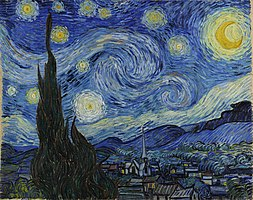
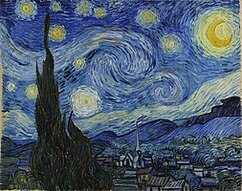
Add resized images and structure to readme doc

diff --git a/assets/js/script.js b/assets/js/script.js
@@ -1,3 +1,6 @@
+/**
+ * List of variables to be used through out the javasript code
+ */
 let gameSection = document.getElementById("container");
 let answerOptions = Array.from(document.getElementsByClassName("options-text"));
 let currentQuestion = {};
@@ -171,13 +174,21 @@ let scoreText = document.getElementById("score");
 let questionCounter = 0;
 let totalQuestions = 2;
 
+/**
+ * Main function to run the game, it calls the function that displays the questions
+ */
 function startGame() {
   score = 0;
   listOfQuestions = [...questions];
   displayNewQuestion();
 }
 
+/**
+ * Function to generate a new question, randomly selected from list of questions.
+ * If the question limit has been reached, the final result will be shown.
+ */
 function displayNewQuestion() {
+  //to display the final result
   if (listOfQuestions.length === 0 || questionCounter > totalQuestions) {
     displayEndSection();
   }
@@ -190,6 +201,7 @@ function displayNewQuestion() {
   //to set the image/text for the answer options, taking the info from the array
   questionImage.setAttribute("src", `assets/images/${currentQuestion.img}`);
 
+  //to display the answer options associated with each image
   answerOptions.forEach((answerOption) => {
     let number = answerOption.dataset["option"];
     answerOption.innerText = currentQuestion["option" + number];
@@ -201,6 +213,9 @@ function displayNewQuestion() {
   acceptingAnswers = true;
 }
 
+/**
+ * Funtion called when question limit has been reached - shows final score
+ */
 function displayEndSection() {
   container.innerHTML = `
   <h2>Thank you for playing!</h2>
@@ -218,7 +233,7 @@ answerOptions.forEach((answerOption) => {
     //to show the number of the option selected by the user
     let selectedAnswer = selectedOption.dataset["option"];
 
-    //to show if the answer is correct or incorrect and increase score counter
+    //to check if the answer is correct or incorrect and increase score counter accordingly
     let classToApply =
       selectedAnswer == currentQuestion.answer ? "correct" : "incorrect";
 
@@ -228,6 +243,7 @@ answerOptions.forEach((answerOption) => {
 
     selectedOption.classList.add(classToApply);
 
+    // to move on to the next question
     setTimeout(() => {
       selectedOption.classList.remove(classToApply);
       displayNewQuestion();
@@ -235,6 +251,9 @@ answerOptions.forEach((answerOption) => {
   });
 });
 
+/**
+ * Function to increase the score if user answers correctly
+ */
 function increaseScore(num) {
   score += num;
   scoreText.innerText = score;

diff --git a/assets/css/style.css b/assets/css/style.css
@@ -1,3 +1,4 @@
+/*Styling for main body of website and general features*/
 body {
   background: linear-gradient(
     109.6deg,
@@ -11,7 +12,26 @@ body {
   text-transform: uppercase;
 }
 
-/*Nav-Bar styling used across all pages of site*/
+ul {
+  padding: 0;
+  margin: 4px;
+}
+
+li {
+  list-style-type: none;
+}
+
+a,
+a:visited {
+  color: #ffffff;
+  text-decoration: none;
+}
+
+a:hover {
+  font-weight: bold;
+}
+
+/*Styling for Nav-bar used on all pages of website*/
 nav {
   position: fixed;
   top: 0;
@@ -38,9 +58,10 @@ nav a:visited {
 
 .flex-item {
   margin: 0 7px;
-  font-size: 22px;
+  font-size: 20px;
 }
 
+/*Styling for game content section*/
 .container {
   color: #2342a4;
   width: 70%;
@@ -48,19 +69,6 @@ nav a:visited {
   background-color: #ffffff;
   border-radius: 10px;
   padding: 15px;
-}
-
-ul {
-  padding: 0;
-  margin: 4px;
-}
-li {
-  list-style-type: none;
-}
-
-footer {
-  color: #ffffff;
-  width: 100%;
 }
 
 #image-div {
@@ -83,6 +91,7 @@ footer {
   gap: 10px;
   flex-flow: row wrap;
 }
+
 .options-text,
 #start-again {
   color: #2342a4;
@@ -97,6 +106,7 @@ button:hover {
   background-color: #2342a4;
   color: #ffffff;
 }
+
 .correct,
 .correct:hover {
   background-color: #52c952;
@@ -115,14 +125,10 @@ button:hover {
   padding-top: 30px;
 }
 
-a,
-a:visited {
+/*Styling for footer section on all pages*/
+footer {
   color: #ffffff;
-  text-decoration: none;
-}
-
-a:hover {
-  font-weight: bold;
+  width: 100%;
 }
 
 footer ul {
@@ -142,6 +148,7 @@ footer a:visited {
   color: #ffff;
 }
 
+/*Styling for about page*/
 p {
   line-height: 50px;
 }

diff --git a/about.html b/about.html
@@ -17,9 +17,10 @@
     ></script>
   </head>
   <body>
+    <!-- Nav Bar Section -->
     <header>
       <nav>
-        <span><h1>👩🎨 Great Women Artists Quiz 👩🎨</h1></span>
+        <h1>👩🎨 Great Women Artists Quiz 👩🎨</h1>
         <ul class="flex-container">
           <li class="flex-item">
             <a href="index.html" title="link to quiz homepage">Play</a>
@@ -30,6 +31,7 @@
         </ul>
       </nav>
     </header>
+    <!-- About Section -->
     <main class="container">
       <p>
         Women artists have been written out of art history for far too long.
@@ -47,8 +49,9 @@
         <br />
         🎨 We hope you have fun and discover a lot about Great Women Artists 🎨
       </p>
-
-      <a href="index.html" id="lets-play-button">Let's Play!</a>
+      <a href="index.html" id="lets-play-button" title="link to homepage"
+        >Let's Play!</a
+      >
     </main>
     <!-- Footer Section -->
     <footer>

diff --git a/index.html b/index.html
@@ -20,7 +20,7 @@
     <!-- Nav-bar section -->
     <header>
       <nav>
-        <span><h1>👩🎨 Great Women Artists Quiz 👩🎨</h1></span>
+        <h1>👩🎨 Great Women Artists Quiz 👩🎨</h1>
         <ul class="flex-container">
           <li class="flex-item">
             <a href="index.html" title="link to quiz homepage">Play</a>
@@ -31,6 +31,7 @@
         </ul>
       </nav>
     </header>
+    <!-- Game section -->
     <div class="container" id="container">
       <h2>Name the artist</h2>
       <div id="game-section">

diff --git a/README.md b/README.md
@@ -1,13 +1,27 @@
 # Art Quiz App
 
-This is an art quiz app where the user can test their knowledge of artworks and their corresponding artist. The user is presented with an image immediately on page load and can choose between four artist's names. If the correct answer is selected the tally at the bottom of the page will increase by 1 and the next image will be shown. If the incorrect answer is selected, the correct answer will be shown in green and then the next image will be shown. When the user has seen ten images, they will be presented with their total correct score and the option to take the quiz again.
+## The Purpose of the Project
 
-Credits -
-Create a Quiz App using HTML, CSS & JavaScript - by CodeGeek https://www.youtube.com/watch?v=Opje9VBrNfg&t=1791s
-https://stackoverflow.com/questions/5480945/refreshing-page-on-click-of-a-buttons
-https://css-tricks.com/snippets/css/a-guide-to-flexbox/#aa-background
+This is an art quiz app intended to test the user's knowlegde of Great Women Artists and their artworks. This quiz was inspired by the recently published 'The Story of Art Without Men' by Katy Hassel, and hopes to promote an interest in the user to further explore the works of Great Women Artists throughout history and today.
 
-Technologies -
+### User Stories
+
+- Home Page - As a visiting user, I want to be able to start the quiz immediately without having to introduce my name or age.
+
+- About Page - As a visiting user, I want to learn more about the quiz and find a link to further information about Great Women Artists.
+
+### Features
+
+- The user is presented with an image immediately on page load and can choose between four artist's names. If the correct answer is selected the tally at the bottom of the page will increase by 1 and the next image will be shown. If the incorrect answer is selected, the correct answer will be shown in green and then the next image will be shown. When the user has seen ten images, they will be presented with their total correct score and the option to take the quiz again.
+
+### Future Features
+
+### Typography and Color Scheme
+
+### Wireframes
+
+### Technology
+
 GitHub Desktop
 VS Code
 CSS, HTML, JavaScript
@@ -16,6 +30,26 @@ Google Fonts
 SheCodes for Background gradient code
 https://wireframepro.mockflow.com/ - for wireframe design
 FontAwesome for social media links
+https://www.iloveimg.com/ - to resize images
 
-Media -
-Images sourced from Google with the Creative Commons License
+### Testing
+
+### Test Cases
+
+### Supported Screens and Browsers
+
+### Bug Fixes
+
+### Deployment
+
+### Credits
+
+#### Content
+
+- Create a Quiz App using HTML, CSS & JavaScript - by CodeGeek https://www.youtube.com/watch?v=Opje9VBrNfg&t=1791s - this video helped structure the Javascript code and it was customised as much as possible to fit the needs of the art quiz.
+- https://stackoverflow.com/questions/5480945/refreshing-page-on-click-of-a-buttons - this site helped solve the problem of restarting the quiz with the button click
+- https://css-tricks.com/snippets/css/a-guide-to-flexbox/#aa-background - this site breaks down the specificities of flexbox.
+
+#### Media
+
+- Images sourced from Google with the Creative Commons License and used solely for educational purposes
